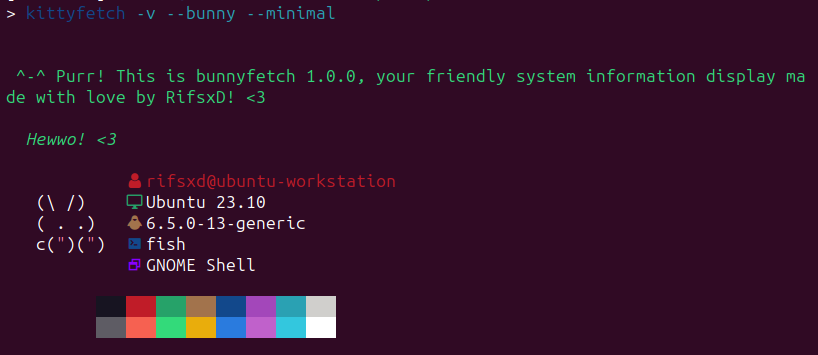
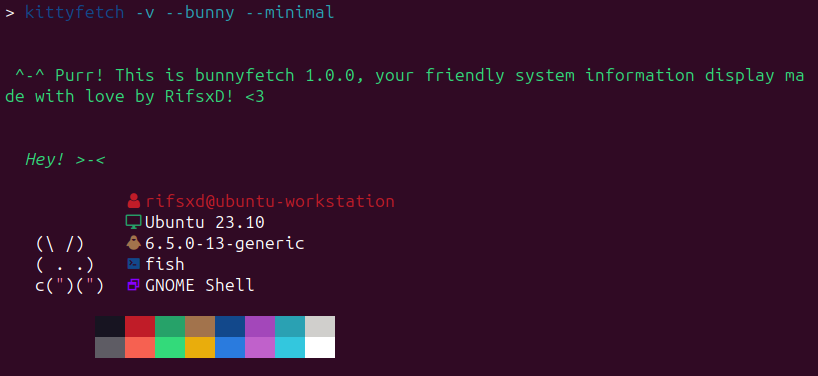
minor patchups and cleanups

diff --git a/src/kittyfetch.c b/src/kittyfetch.c
@@ -196,17 +196,16 @@ void kittyfetchminimal(int verbose, int isBunny) {
             " \033[3m%s\n"
             "            \n"
             "            %s\n"
+            "            %s\n"
             "   \033[38;5;15m(\\ /)\033[0m    %s\n"
             "   \033[38;5;15m( . .)\033[0m   %s\n"
-            "   \033[38;5;15mc(\033[38;5;211m%c\033[\033[38;5;15m)(\033[38;5;211m%c\033[\033[38;5;15m)\033[0m  %s\n"
-            "            %s\n\n",
+            "   \033[38;5;15mc(\033[38;5;211m%c\033[\033[38;5;15m)(\033[38;5;211m%c\033[\033[38;5;15m)\033[0m  %s\n\n",
             getRandomGreetingBunny(),
             titleinf(),
             osinf(),
             kernelinf(),
-            '"', '"',
             shellinf(),
-            
+            '"', '"',
             wminf()
         );
     } else {
